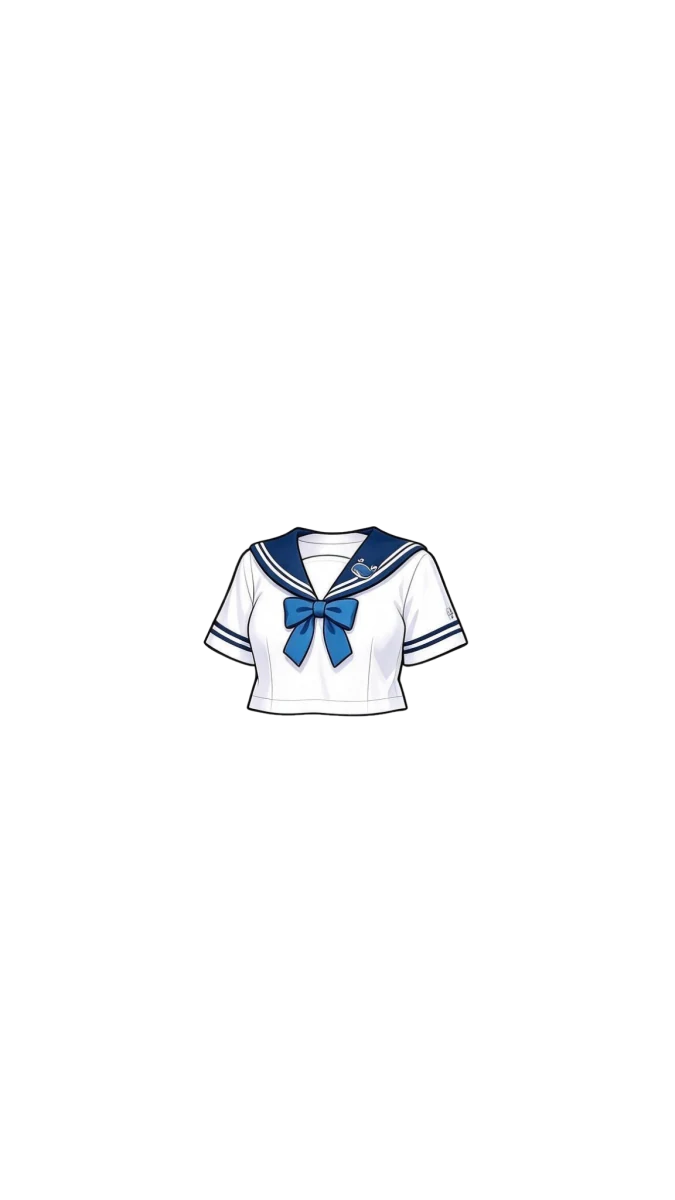
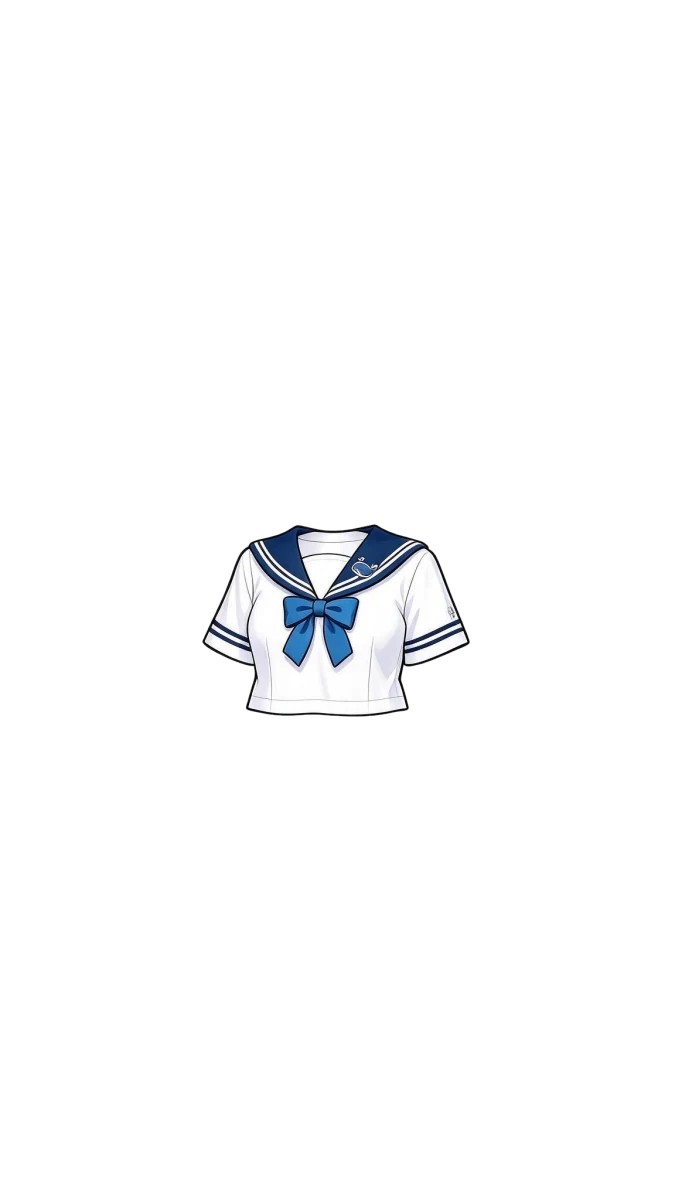
fix(v0.9.1): 水手服领结锚点配准修复露肩 + 重建素材
- 根因：look 水手服是连体式（衬衫+白下装连成一片白色），旧『浅色衬衫主体↔look 白色区域』配准被连体衣下摆拉偏缩小（girl 0.99×0.95=0.9405 / chibi dy+12 源px）
- 改用 whiteout/look 亮蓝领结做 probe/target 的 scale+平移 IoU 配准（深蓝领子只框定区域，不参与匹配），失败自动回退原整件配准并标记
- 重建 chibi/girl 水手服 body/sleeve 4 图层；manifest/schema/前端/tests 未变
- QA：领结质心误差 girl 5.07→0.13 / chibi 0.86→0.18 目标px；IoU 0.851→0.912 / 0.719→0.907；肩颈露肤像素 girl 101→0；其余专项 QA 不回退；14 组合目检通过；构建连跑两次 md5 一致；verify 108/108

Changed region(s): [[0.3111, 0.4317, 0.6844, 0.5858], [0.3733, 0.555, 0.4044, 0.5858]]

diff --git a/docs/dress-up/LAYER-MODEL.md b/docs/dress-up/LAYER-MODEL.md
@@ -1,6 +1,6 @@
 # 换装分层模型 v6（纸娃娃分层 v2）· 设计契约
 
-> 状态：v0.9.0 实施中。本文是 **素材构建 / manifest / 前端渲染** 三方的唯一契约。
+> 状态：v0.9.1 维护中（v0.9.0 实施；v0.9.1 修复水手服配准导致露肩）。本文是 **素材构建 / manifest / 前端渲染** 三方的唯一契约。
 > 背景：v0.8 的「5 槽位 + 全局 z」表达不了三层以上遮挡（手/前发/袖口/裙腰），
 > 用户反馈「图层叠加层次关系还是不对」。v6 把画布拆成 **7 个深度 strata（槽位）**，
 > 用「身体部件层 + 衣服按手臂掩膜拆袖/身」表达正确的遮挡。
@@ -91,6 +91,7 @@
      这样长袖会盖住手臂、短袖只盖住上臂、无袖没有袖子层；两层 RGB 完全相同，重叠处无接缝。
    - 下装只有一张（`bottom-<id>.webp`），放 `bottom` 槽位。
    - 已知补丁：少女版卫衣白色单件图丢了橙色蝴蝶结 → 构建时从 look 的橙色像素补回 body 层（QA 有断言）。
+   - 已知补丁（v0.9.1）：水手服的 look 是连体式（衬衫 + 白下装连成一片白色），用「浅色衬衫主体 ↔ look 白色区域」配准会被连体衣下摆拉偏缩小（girl 缩 6%）。改为**领结锚点配准**：whiteout 领结做 probe、look 亮蓝领结做 target，scale + 平移 IoU 搜索；失败自动回退。QA 断言：领结质心误差 < 2 目标 px、配准 IoU ≥ 0.5。
 5. manifest v6 + `pet-default.webp`（按 drawOrder 合成默认穿搭）+ QA 拼图。
 6. 旧 v5 素材（`base.webp/overlay.webp`、无 `-body/-sleeve` 后缀的旧图层）清理。
 
@@ -117,12 +118,14 @@
 7. 真机页面：:3080 顶替后 `/feiyu/dress-up/` 实测 14 种组合 + 双身形 + 立绘卡 + 悬浮小鲸鱼。
 8. 性能不回退：换装点击延迟 < 100ms、long task = 0（沿用 v0.8 的 CDP 测法）。
 
-## 6. 已知遗留（不在 v0.9.0 范围）
+## 6. 已知遗留（不在 v0.9.0 范围；v0.9.1 处理见括号）
 
 - **水手服素材本身是连体**：`raw12` 的 `girl/chibi-only-top-sailor.png` 生成成了连体式（含白色下装），
   v6 用「topUnder 塞进裙子」规避视觉问题；彻底修复需重新生成该 look/whiteout（下一轮）。
 - **少女版卫衣丢了橙色蝴蝶结**：look 有、whiteout 无。v6 先用「从 look 补橙色像素」的 build patch，
   若补不干净下一轮重新生成 whiteout。
+- **少女版水手服丢了小鲸鱼印花**（v0.9.1 实测）：look 内衬胸口有白色小鲸鱼印花，whiteout 里没有，
+  当前合成缺这个细节；v0.9.0 起即存在，非配准问题，修复需改 whiteout/look 生成提示词或从 look 补丁。
 - 头发与手臂的真实前后关系（个别发丝在手臂后）用「hair 最上层」近似；如出现发丝压手，可再拆 `hairBack` 槽位。
   实测副作用：长袖毛衣/卫衣的肩侧发缕会以 1–2px 深色发丝盖在衣服上（真值 look 里个别本应在衣服后），非洞、可接受。
 - 掩膜由 CV+人工 QA 生成，边界 1–2px 误差；build 里 `arms` 略保守、`sleeve` 膨胀 6px 兜底。

diff --git a/CHANGELOG.md b/CHANGELOG.md
@@ -1,5 +1,17 @@
 # Changelog
 
+## 0.9.1 — 2026-11-02
+
+「水手服露肩修复：白底单件图配准从『浅色衬衫主体 ↔ look 白色区域』改为『领结锚点配准』」。
+
+### 修复
+
+- 用户反馈水手服合成时**脖子/肩部露出素体皮肤**（v0.9.0 缺陷）。根因：look 里的水手服是**连体式**（衬衫 + 白色下装连成一片白色），旧配准拿「浅色衬衫主体」去配 look 的整片白色区域，被连体衣下摆拉偏缩小——少女版整体缩 6%（0.99 × `extra_scale 0.95`）、衣领偏下；Q 版下移 12 源 px。
+- 新增**领结锚点配准**：用 whiteout 的亮蓝色领结做 probe、look 的亮蓝领结做 target，做 scale + 平移的 IoU 搜索（深蓝领子只用于框定领结区域——look 里领子外翼被头发遮挡、形状不一致，不参与匹配）；配准失败自动回退到原整件形状配准并在构建报告标记。
+- 重建 `chibi/girl` 水手服 `body` / `sleeve` 4 个图层；其余素材、manifest、schema、前端均未变。
+- QA：领结质心误差 **5.07 → 0.13（girl）/ 0.86 → 0.18（chibi）** 目标 px；配准 IoU **0.851 → 0.912（girl）/ 0.719 → 0.907（chibi）**；肩颈露肤像素（look 是衬衫而合成是皮肤）**girl 101 → 0**；洋红空洞 0、头发鬼影/手在裙前/长发盖衣/卫衣蝴蝶结等专项 QA 不回退；14 组合目检通过；构建连跑两次 md5 一致；`npm run verify` 108/108。
+- 已知遗留：girl 水手服 whiteout 丢失 look 内衬上的小鲸鱼印花（v0.9.0 已存在，非配准问题，记入 `LAYER-MODEL.md` §6）。
+
 ## 0.9.0 — 2026-11-02
 
 「图层叠加层次重做：7 槽位纸娃娃分层 v2（技术选型 + manifest v6）」。用户反馈「图层叠加层次关系还是不对」后，

diff --git a/README.md b/README.md
@@ -6,7 +6,7 @@
 
 > 把 DSH 的 token 账单，变成一条鱼的衣柜。
 
-当前版本：`0.9.0`
+当前版本：`0.9.1`
 
 **🆕 换装间 3.1（纸娃娃分层 v2）**：装好插件后，DSH 侧边栏会出现 **🎀 换装间**，点开即玩——**左边舞台 + 右边衣柜**的经典换装布局；右侧衣柜只放衣服图标；**Q版 / 少女版双身形**、**7 槽位纸娃娃分层**（素体 / 手臂+手 / 完整前发 + 每件衣服「衣身 + 袖子」两片）——上衣 3（毛衣 / 卫衣 / 水手服）× 下装 2（及膝格纹 / 百褶长裙）任意混搭，另有经典女仆长裙；**手/前臂在裙子前面、长发丝在衣服前面、长袖袖口正确盖住手腕**，图层遮挡关系按真实穿着顺序合成；另有 6 张场景背景、4 种粒子特效。人物会呼吸/浮空/蹦跳，站进场景里而不是浮在壁纸上。桌面右下角还有一只**悬浮小鲸鱼**，跟着当前穿搭换装，拖动移动、右键菜单打开换装间。
 
